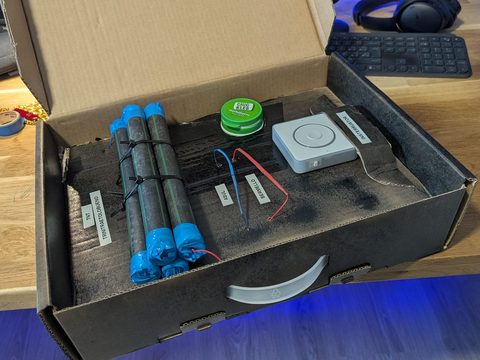
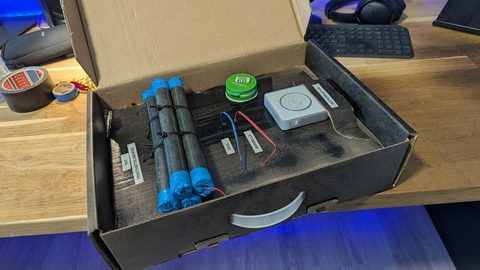
Ball Radar: miniatura del vídeo de YouTube; imágenes de proyectos en 16:9

diff --git a/ca/index.html b/ca/index.html
@@ -51,7 +51,7 @@
     <h2>Projectes</h2>
     <ul class="projects">
       <li class="proj">
-        <a class="thumb" href="https://play.google.com/store/apps/details?id=com.ballradar.app" rel="noopener" tabindex="-1"><img src="../assets/projects/ball-radar.jpg" width="160" height="120" alt="" loading="lazy"></a>
+        <a class="thumb" href="https://play.google.com/store/apps/details?id=com.ballradar.app" rel="noopener" tabindex="-1"><img src="../assets/projects/ball-radar.jpg" width="176" height="99" alt="" loading="lazy"></a>
         <div>
           <div class="proj-head"><h4>Ball Radar</h4><span class="meta">2026 · Flutter · Android</span></div>
           <p>Una gimcana GPS per jugar a l&#x27;aire lliure. Algú amaga les 7 esferes caminant per un parc o pel barri, i la resta les ha de trobar guiant-se pel radar. Feta amb Flutter per a Android.</p>
@@ -59,7 +59,7 @@
         </div>
       </li>
       <li class="proj">
-        <a class="thumb" href="https://github.com/eduherraiz/bombshot" rel="noopener" tabindex="-1"><img src="../assets/projects/bombshot.jpg" width="160" height="120" alt="" loading="lazy"></a>
+        <a class="thumb" href="https://github.com/eduherraiz/bombshot" rel="noopener" tabindex="-1"><img src="../assets/projects/bombshot.jpg" width="176" height="99" alt="" loading="lazy"></a>
         <div>
           <div class="proj-head"><h4>Bombshot</h4><span class="meta">2026 · Home Assistant · Python</span></div>
           <p>Jocs de festa que funcionen sencers dins un altaveu Home Assistant Voice PE, sense mòbil ni pantalla. A la bomba, l&#x27;altaveu diu un nombre, comença un tic-tac de 30 segons i s&#x27;ha d&#x27;endevinar quin cable tallar. El Tòtem del Xaman és un Simon de quatre elements amb llums i veu.</p>
@@ -67,7 +67,7 @@
         </div>
       </li>
       <li class="proj">
-        <a class="thumb" href="https://www.pescandoenmallorca.com" rel="noopener" tabindex="-1"><img src="../assets/projects/pescando-en-mallorca.jpg" width="160" height="120" alt="" loading="lazy"></a>
+        <a class="thumb" href="https://www.pescandoenmallorca.com" rel="noopener" tabindex="-1"><img src="../assets/projects/pescando-en-mallorca.jpg" width="176" height="99" alt="" loading="lazy"></a>
         <div>
           <div class="proj-head"><h4>Pescando en Mallorca</h4><span class="meta">Blog</span></div>
           <p>Blog familiar de pesca que va començar contant les sortides del nostre grup i va acabar essent punt de trobada de pescadors mallorquins, amb cròniques, captures i tècniques.</p>

diff --git a/index.html b/index.html
@@ -51,7 +51,7 @@
     <h2>Proyectos</h2>
     <ul class="projects">
       <li class="proj">
-        <a class="thumb" href="https://play.google.com/store/apps/details?id=com.ballradar.app" rel="noopener" tabindex="-1"><img src="assets/projects/ball-radar.jpg" width="160" height="120" alt="" loading="lazy"></a>
+        <a class="thumb" href="https://play.google.com/store/apps/details?id=com.ballradar.app" rel="noopener" tabindex="-1"><img src="assets/projects/ball-radar.jpg" width="176" height="99" alt="" loading="lazy"></a>
         <div>
           <div class="proj-head"><h4>Ball Radar</h4><span class="meta">2026 · Flutter · Android</span></div>
           <p>Una gincana GPS para jugar al aire libre. Alguien esconde las 7 esferas caminando por un parque o por el barrio, y el resto tiene que encontrarlas guiándose por el radar. Hecha con Flutter para Android.</p>
@@ -59,7 +59,7 @@
         </div>
       </li>
       <li class="proj">
-        <a class="thumb" href="https://github.com/eduherraiz/bombshot" rel="noopener" tabindex="-1"><img src="assets/projects/bombshot.jpg" width="160" height="120" alt="" loading="lazy"></a>
+        <a class="thumb" href="https://github.com/eduherraiz/bombshot" rel="noopener" tabindex="-1"><img src="assets/projects/bombshot.jpg" width="176" height="99" alt="" loading="lazy"></a>
         <div>
           <div class="proj-head"><h4>Bombshot</h4><span class="meta">2026 · Home Assistant · Python</span></div>
           <p>Juegos de fiesta que funcionan enteros dentro de un altavoz Home Assistant Voice PE, sin móvil ni pantalla. En la bomba, el altavoz dice un número, empieza un tictac de 30 segundos y hay que deducir qué cable cortar. El Tótem del Chamán es un Simon de cuatro elementos con luces y voz.</p>
@@ -67,7 +67,7 @@
         </div>
       </li>
       <li class="proj">
-        <a class="thumb" href="https://www.pescandoenmallorca.com" rel="noopener" tabindex="-1"><img src="assets/projects/pescando-en-mallorca.jpg" width="160" height="120" alt="" loading="lazy"></a>
+        <a class="thumb" href="https://www.pescandoenmallorca.com" rel="noopener" tabindex="-1"><img src="assets/projects/pescando-en-mallorca.jpg" width="176" height="99" alt="" loading="lazy"></a>
         <div>
           <div class="proj-head"><h4>Pescando en Mallorca</h4><span class="meta">Blog</span></div>
           <p>Blog familiar de pesca que empezó contando las salidas de nuestro grupo y acabó siendo punto de encuentro de pescadores mallorquines, con crónicas, capturas y técnicas.</p>

diff --git a/en/index.html b/en/index.html
@@ -51,7 +51,7 @@
     <h2>Projects</h2>
     <ul class="projects">
       <li class="proj">
-        <a class="thumb" href="https://play.google.com/store/apps/details?id=com.ballradar.app" rel="noopener" tabindex="-1"><img src="../assets/projects/ball-radar.jpg" width="160" height="120" alt="" loading="lazy"></a>
+        <a class="thumb" href="https://play.google.com/store/apps/details?id=com.ballradar.app" rel="noopener" tabindex="-1"><img src="../assets/projects/ball-radar.jpg" width="176" height="99" alt="" loading="lazy"></a>
         <div>
           <div class="proj-head"><h4>Ball Radar</h4><span class="meta">2026 · Flutter · Android</span></div>
           <p>A GPS treasure hunt to play outdoors. Someone hides the 7 balls by walking around a park or the neighbourhood, and the others have to find them guided by the radar. Built with Flutter for Android.</p>
@@ -59,7 +59,7 @@
         </div>
       </li>
       <li class="proj">
-        <a class="thumb" href="https://github.com/eduherraiz/bombshot" rel="noopener" tabindex="-1"><img src="../assets/projects/bombshot.jpg" width="160" height="120" alt="" loading="lazy"></a>
+        <a class="thumb" href="https://github.com/eduherraiz/bombshot" rel="noopener" tabindex="-1"><img src="../assets/projects/bombshot.jpg" width="176" height="99" alt="" loading="lazy"></a>
         <div>
           <div class="proj-head"><h4>Bombshot</h4><span class="meta">2026 · Home Assistant · Python</span></div>
           <p>Party games that run entirely on a Home Assistant Voice PE speaker, no phone or screen needed. In the bomb, the speaker says a number, 30 seconds of ticking start and you have to work out which wire to cut. The Shaman&#x27;s Totem is a four-element Simon with lights and voice.</p>
@@ -67,7 +67,7 @@
         </div>
       </li>
       <li class="proj">
-        <a class="thumb" href="https://www.pescandoenmallorca.com" rel="noopener" tabindex="-1"><img src="../assets/projects/pescando-en-mallorca.jpg" width="160" height="120" alt="" loading="lazy"></a>
+        <a class="thumb" href="https://www.pescandoenmallorca.com" rel="noopener" tabindex="-1"><img src="../assets/projects/pescando-en-mallorca.jpg" width="176" height="99" alt="" loading="lazy"></a>
         <div>
           <div class="proj-head"><h4>Pescando en Mallorca</h4><span class="meta">Blog</span></div>
           <p>A family fishing blog that started as the log of our fishing group and became a meeting point for Mallorcan anglers, with trip reports, catches and techniques.</p>

diff --git a/assets/style.css b/assets/style.css
@@ -75,9 +75,9 @@ ul { list-style: none; margin: 0; padding: 0; }
 .news li a:hover { color: var(--gold); }
 .date { color: var(--muted); font-size: 14px; padding-top: 2px; font-variant-numeric: tabular-nums; }
 
-.proj { display: grid; grid-template-columns: 160px 1fr; gap: 20px; align-items: start; padding: 18px 0; border-bottom: 1px dashed var(--line); }
+.proj { display: grid; grid-template-columns: 176px 1fr; gap: 20px; align-items: start; padding: 18px 0; border-bottom: 1px dashed var(--line); }
 .thumb { border: 0; display: block; }
-.thumb img { display: block; width: 160px; height: 120px; object-fit: cover; border-radius: 8px; border: 1px solid var(--line); }
+.thumb img { display: block; width: 176px; height: 99px; object-fit: cover; border-radius: 8px; border: 1px solid var(--line); }
 .proj:last-child { border-bottom: 0; }
 .proj-head { display: flex; justify-content: space-between; align-items: baseline; gap: 4px 16px; flex-wrap: wrap; }
 h4 { margin: 0; font-size: 17px; font-weight: 600; }
@@ -101,6 +101,6 @@ footer { margin-top: 56px; color: var(--muted); font-size: 13px; text-align: cen
   h1 { font-size: 34px; }
   .news li { grid-template-columns: 1fr; gap: 0; }
   .proj { grid-template-columns: 1fr; gap: 12px; }
-  .thumb img { width: 100%; height: auto; aspect-ratio: 4 / 3; }
+  .thumb img { width: 100%; height: auto; aspect-ratio: 16 / 9; }
   .essay h1 { font-size: 30px; }
 }

diff --git a/build.py b/build.py
@@ -100,7 +100,7 @@ def project(p, lang, prefix):
     meta = " · ".join(x for x in [p.get("year", ""), t(p.get("tags", ""), lang)] if x)
     links = " ".join(f'{ext(u)}{escape(t(k, lang))}</a>' for k, u in p["links"])
     img = (f'<a class="thumb" href="{escape(p["links"][0][1])}" rel="noopener" tabindex="-1">'
-           f'<img src="{prefix}assets/projects/{p["image"]}" width="160" height="120" alt="" loading="lazy"></a>') if p.get("image") else ""
+           f'<img src="{prefix}assets/projects/{p["image"]}" width="176" height="99" alt="" loading="lazy"></a>') if p.get("image") else ""
     return f"""      <li class="proj">
         {img}
         <div>
